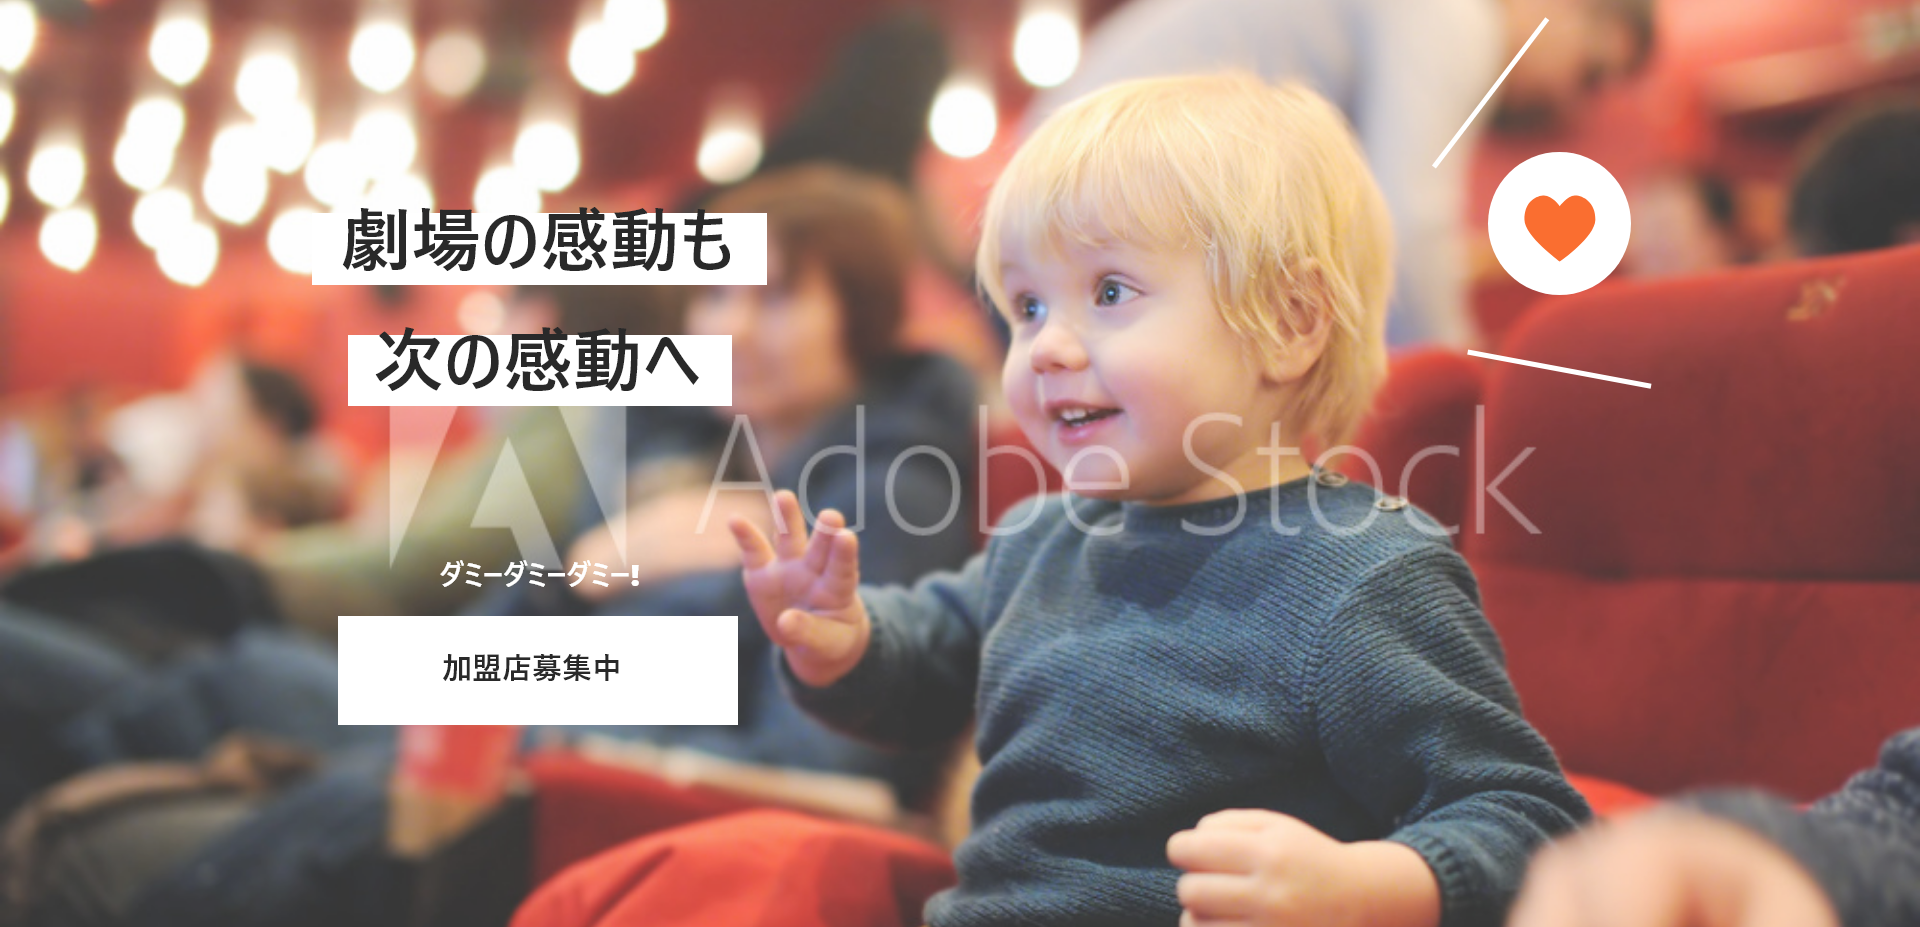
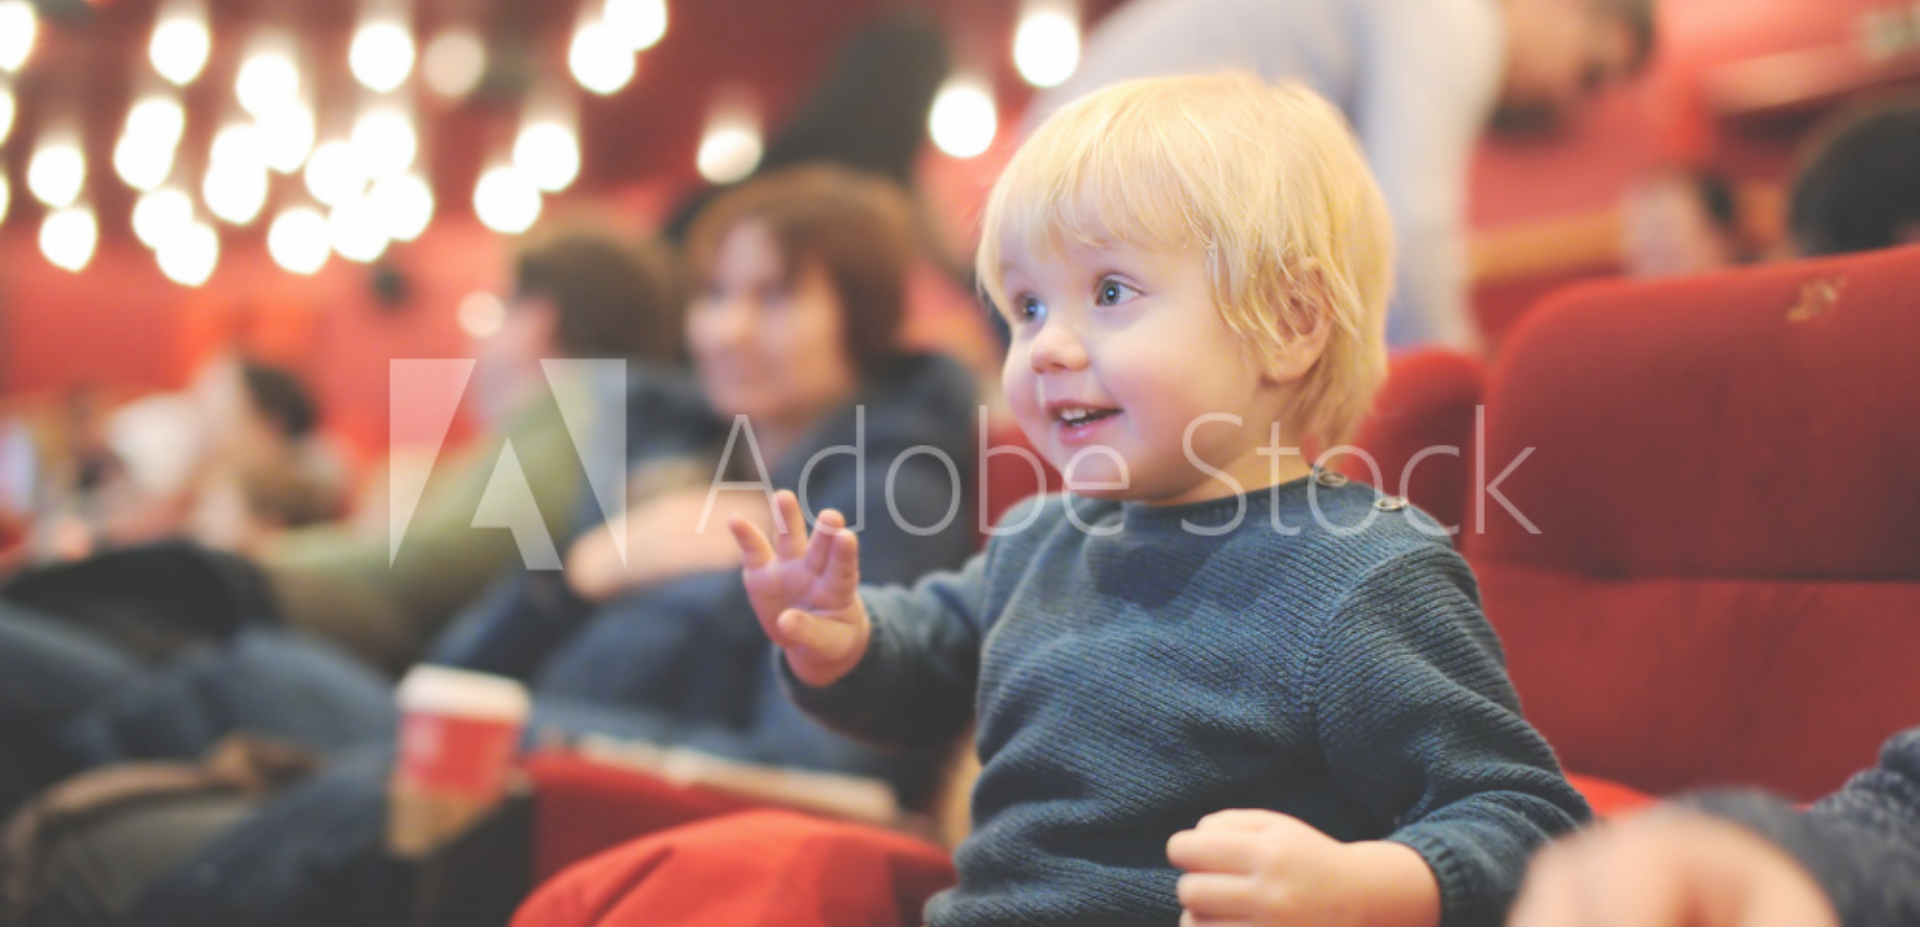
add

diff --git a/index.html b/index.html
@@ -19,6 +19,7 @@
         speed: 1000,
         pause: 8000,
         maxSlides: 1,
+        pager: false
       });
     });
   </script>
@@ -27,16 +28,31 @@
 <body>
   <div class="topslider">
     <ul class="slider">
-      <li><img src="images/top1.png" /></li>
-      <li><img src="images/top2.png" /></li>
-      <li><img src="images/top3.png" /></li>
+      <li>
+        <img src="images/top1.png" />
+        <h1 class="str11">劇場の感動も</h1>
+        <h1 class="str12">次の感動へ</h1>
+        <h2 class="str13">加盟店募集中</h2>
+      </li>
+      <li>
+        <img src="images/top2.png" />
+        <h1 class="str21">その日の感動を</h1>
+        <h1 class="str22">次の感動へ</h1>
+        <h2 class="str23">加盟店募集中</h2>
+      </li>
+      <li>
+        <img src="images/top3.png" />
+        <h1 class="str31">美味しさの感動も</h1>
+        <h1 class="str32">次の感動へ</h1>
+        <h2 class="str33">加盟店募集中</h2>
+      </li>
     </ul>
   </div>
   <div class="introduction">
     <div class="container">
       <h1 class="intro_h1">〇〇はギフティングのあるECです</h1>
       <div class="row">
-        <div class="col-lg-6">
+        <div class="col-lg-5">
           <div class="top">
             <img src="images/introduction.png">
             <p>チケットを誰かに<span>Gift</span>する</p>
@@ -45,7 +61,7 @@
             <img src="images/introduction1.png">
           </div>
         </div>
-        <div class="col-lg-6">
+        <div class="col-lg-5 col-lg-offset-2">
           <div class="top">
             <img src="images/introduction.png">
             <p>感動の対価を運営元に<span>Gift</span>する</p>
@@ -83,7 +99,7 @@
             </p>
           </div>
         </div>
-        <div class="row">
+        <div class="row last">
           <div class="col-lg-6">
             <h2>3.イベント後感動にGiffting！</h2>
             <p>
@@ -132,22 +148,22 @@
           <img src="images/access.png">
         </div>
         <div class="col-lg-6 col-lg-offset-1">
-          <form>
+          <form action="https://docs.google.com/forms/u/0/d/e/1FAIpQLSc2aelFxVq763L58nxnnI2ssxZBDpjZP1b1nXlvvmuH83LMdQ/formResponse">
             <div class="form-group">
               <label>お名前</label>
-              <input type="text" class="form-control" placeholder="text">
+              <input type="text" class="form-control" placeholder="text" name="entry.1144617301" required/>
             </div>
             <div class="form-group">
               <label>メールアドレス</label>
-              <input type="email" class="form-control" placeholder="mailadress">
+              <input type="email" class="form-control" placeholder="mailadress" name="entry.1483169354" required/>
             </div>
             <div class="form-group">
               <label>会社名</label>
-              <input type="text" class="form-control" placeholder="text">
+              <input type="text" class="form-control" placeholder="text" name="entry.1231698964" required/>
             </div>
             <div class="form-group">
               <label>お問い合わせ内容</label>
-              <textarea class="form-control"></textarea>
+              <textarea class="form-control" name="entry.1633845435" required></textarea>
             </div>
             <div class="form-group">
               <button class="btn btn-block">送信</button>

diff --git a/css/style.css b/css/style.css
@@ -9,6 +9,62 @@ img {
 }
 
 
+.slider .str11 {
+    position: absolute;
+    top: 22%;
+    left: 17%;
+    font-size: 70px;
+}
+.slider .str12 {
+    position: absolute;
+    top: 34%;
+    left: 19%;
+    font-size: 70px;
+}
+.slider .str13 {
+    position: absolute;
+    top: 72%;
+    left: 19%;
+    font-size: 50px;
+}
+.slider .str21 {
+    position: absolute;
+    top: 13%;
+    left: 38%;
+    font-size: 70px;
+}
+.slider .str22 {
+    position: absolute;
+    top: 28%;
+    left: 41%;
+    font-size: 70px;
+}
+.slider .str23 {
+    position: absolute;
+    top: 75%;
+    left: 42%;
+    font-size: 50px;
+}
+.slider .str31 {
+    position: absolute;
+    top: 14%;
+    left: 13%;
+    font-size: 70px;
+}
+.slider .str32 {
+    position: absolute;
+    top: 27%;
+    left: 18%;
+    font-size: 70px;
+}
+.slider .str33 {
+    position: absolute;
+    top: 72%;
+    left: 20%;
+    font-size: 50px;
+}
+
+
 .slider img{
     width: 100% !important;
     height: auto !important;
@@ -19,6 +75,25 @@ img {
 }
 
 
+.introduction {
+    background-color: rgb(255, 229, 218);
+}
+.introduction .row {
+    margin-bottom: 50px;
+    width: 100%;
+    margin-left: 0;
+
+}
+.introduction img {
+    padding: 10px;
+}
+.introduction .col-lg-5 {
+    background-color: white;
+    padding: 0;
+}
+.introduction .container {
+    margin-top: 0;
+}
 .introduction span {
     color: #FA9F77;
 }
@@ -26,6 +101,8 @@ img {
     position: relative;
     margin-bottom: 50px;
 }
+
+
 .top p {
     position: absolute;
     top: 40%;
@@ -38,19 +115,21 @@ img {
     font-size: 20px;
 }
 .intro_h1 {
+    margin-top: 50px;
     margin-left: 250px;
     margin-right: 250px;
-    margin-bottom: 100px;
-    background: linear-gradient(transparent 40%, rgb(255, 229, 218) 50%);
+    margin-bottom: 50px;
+    background: linear-gradient(transparent 40%, rgb(255, 186, 156) 50%);
 }
 
 
 
+.howto .container {
+    margin-top: 0;
+}
 .howto, .access {
     background-color: #FA9F77;
 }
-
-
 .howto_in {
     background-color: white;
 }
@@ -72,6 +151,7 @@ img {
     margin-top: 50px;
     margin-bottom: 30px;
 }
+
 
 .whatcan .row{
     margin-bottom: 50px;
@@ -98,7 +178,7 @@ img {
     margin-bottom: 100px;
 }
 .access .row {
-    margin-bottom: 50px;
+    margin-bottom: 100px;
 }
 
 .access img {
@@ -142,7 +222,10 @@ label {
     h1 {
         font-size: 30px;
     }
-
+    .introduction .col-lg-5 {
+        padding: 0;
+        margin-bottom: 20px;
+    }
     .intro_h1 {
         margin-bottom: 30px;
         margin-left: 100px;
@@ -176,8 +259,9 @@ label {
     }
 
 
-    .introduction .col-lg-6 {
-        padding: 50px;
+    .introduction .col-lg-5 {
+        padding: 0;
+        margin-bottom: 20px;
     }
 
     .intro_h1 {
@@ -186,7 +270,6 @@ label {
         margin-right: 60px;
     }
     .howto_in .row {
-        margin: 0 auto;
         padding: 0;
     }
     .howto_h1 {
@@ -213,7 +296,9 @@ label {
     .access h1 {
         margin: 30px;
     }
-
+    .howto .last {
+        margin-bottom: 50px;
+    }
 
 
 
